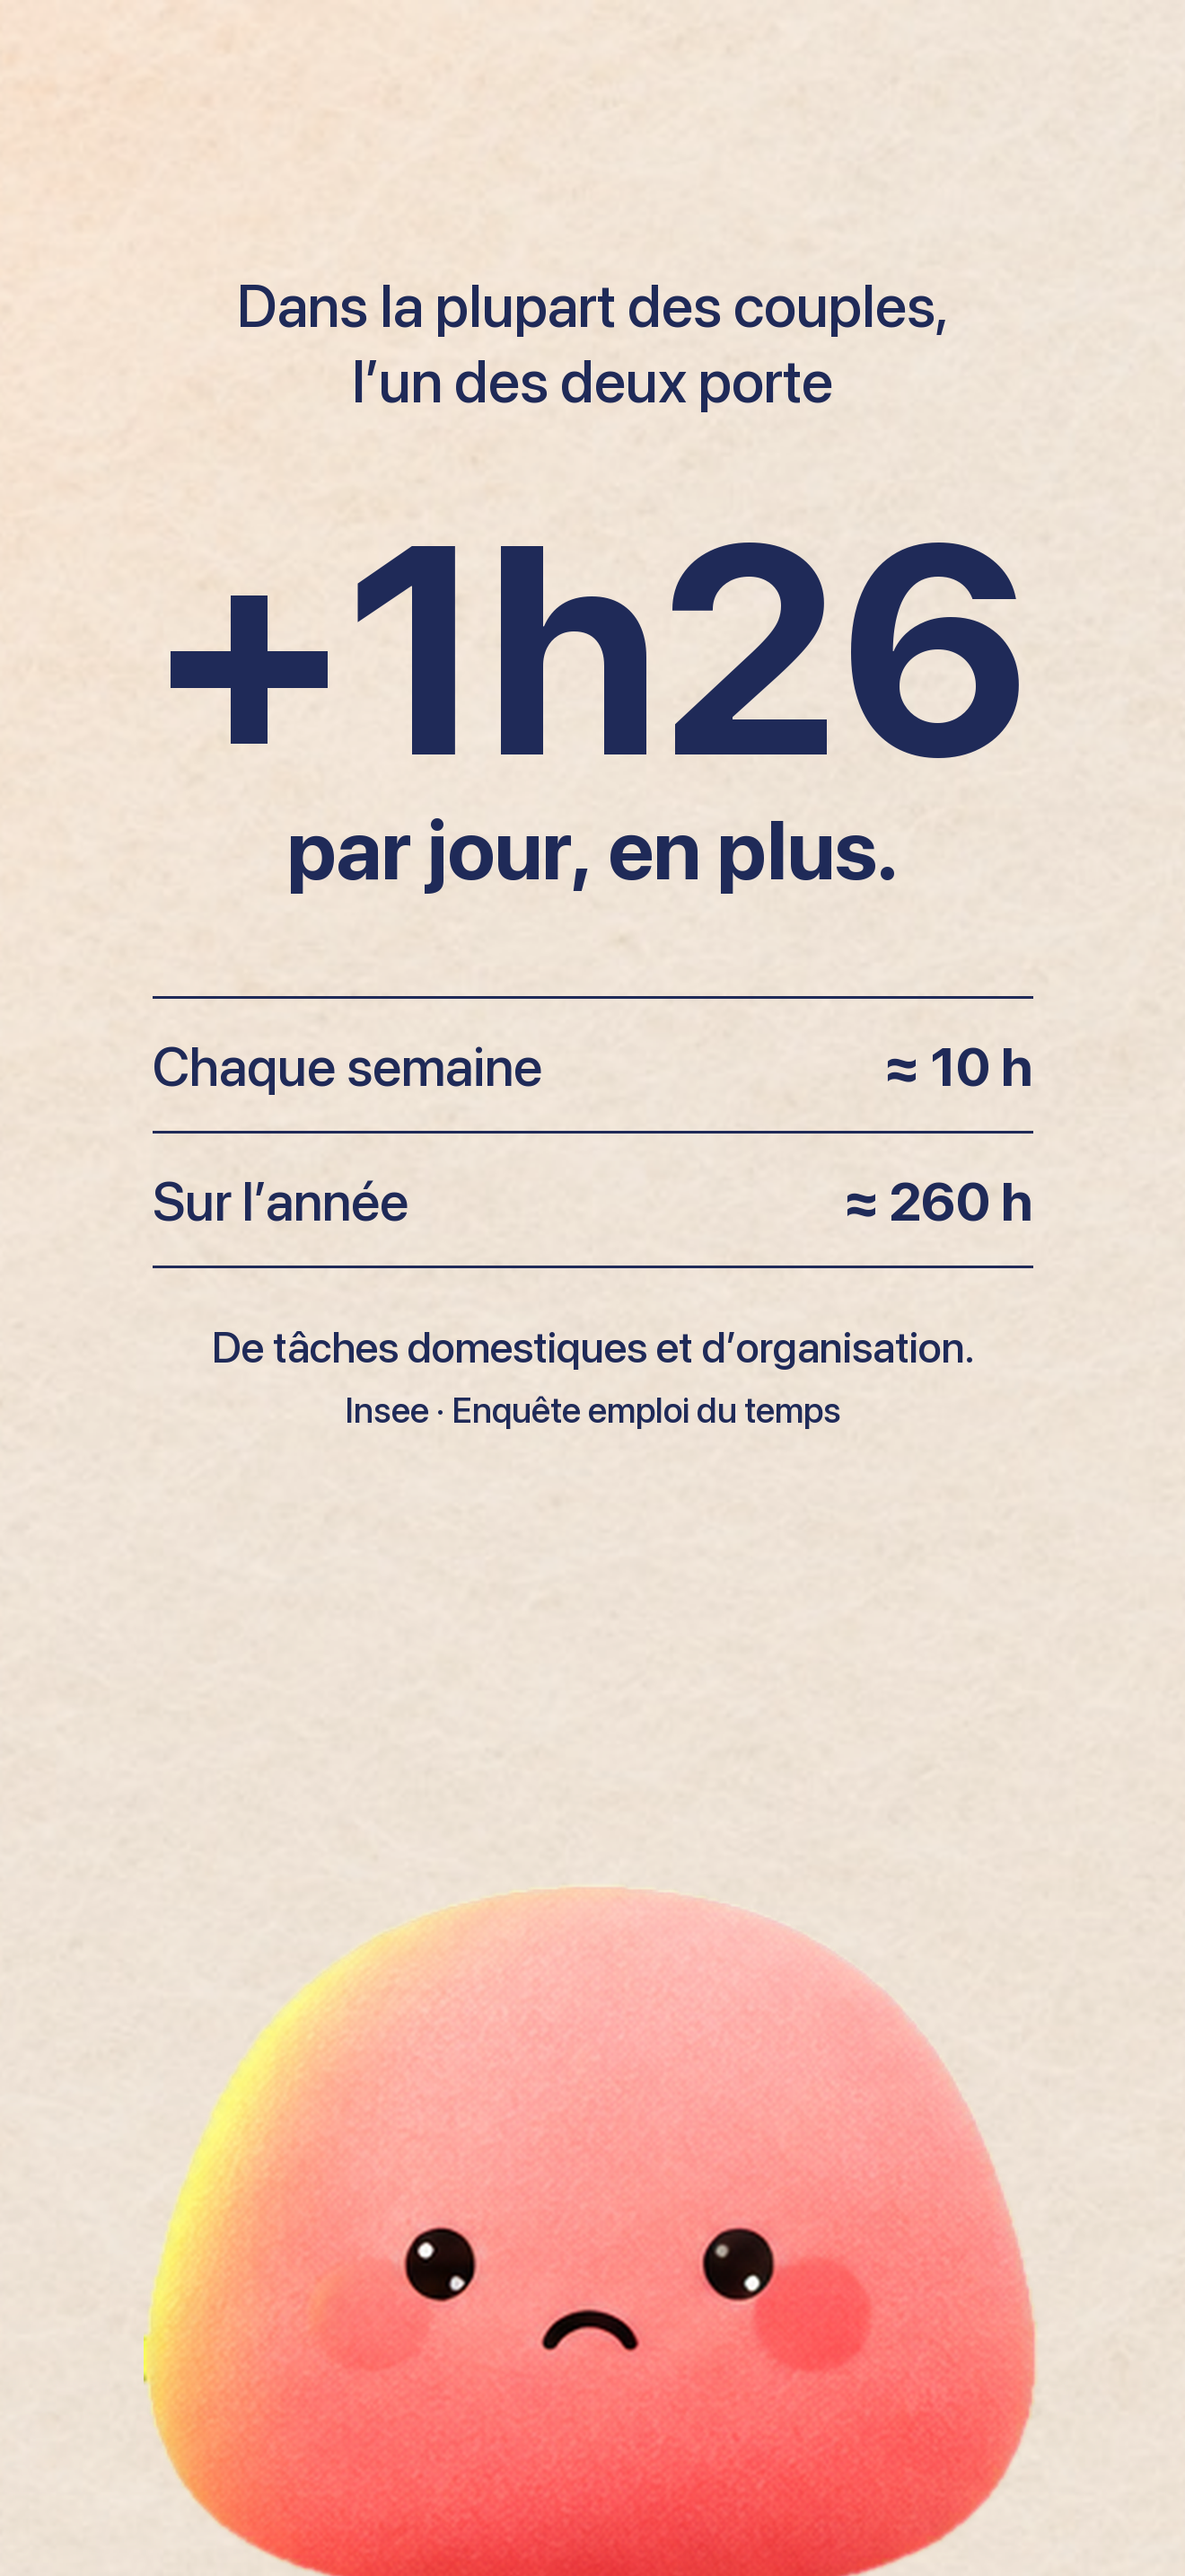
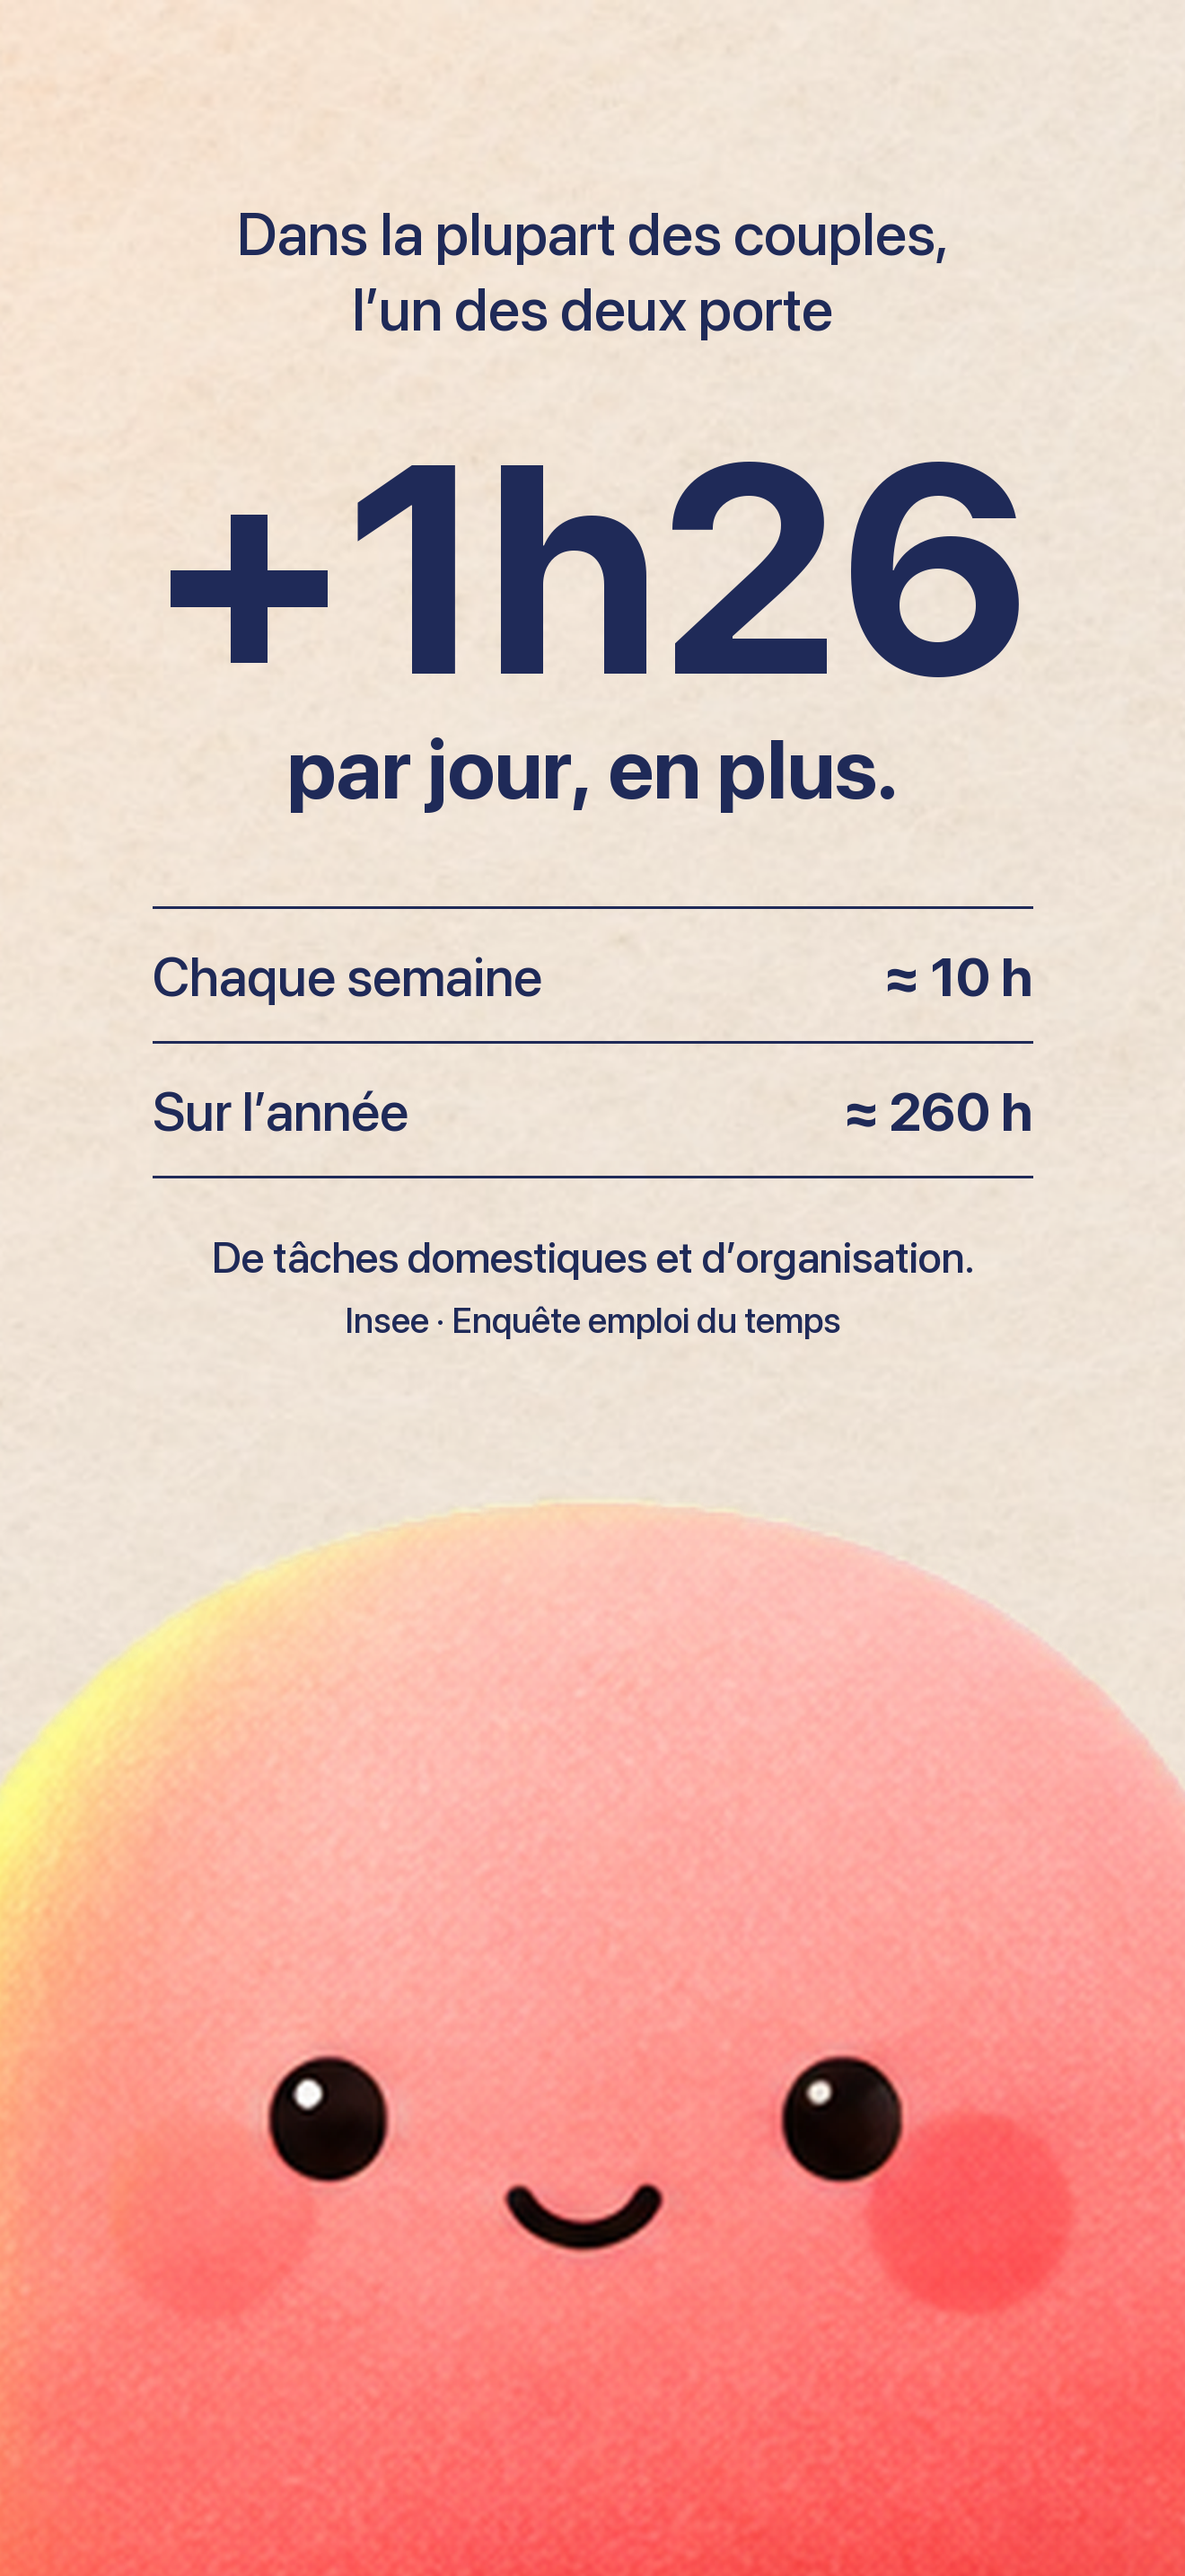
Captures App Store : écran Insee avec Mochi géant qui monte du bas

diff --git a/scripts/store-ecran2-insee.py b/scripts/store-ecran2-insee.py
@@ -9,16 +9,16 @@ base=Image.new('RGB',(W,H),(0xF3,0xEA,0xDF)); felt=Image.open(M+'assets/splash/f
 lay=base.copy(); lay.paste(felt,((W-H)//2,0)); im=Image.blend(base,lay,0.55).convert('RGBA'); d=ImageDraw.Draw(im)
 def c(y,t,f,fill):
     w=d.textlength(t,font=f); d.text(((W-w)/2,y),t,font=f,fill=fill)
-c(300,'Dans la plupart des couples,',font(66,'Medium'),INK+(190,)); c(384,'l’un des deux porte',font(66,'Medium'),INK+(190,))
-c(520,'+1h26',font(330,'Bold'),INK); c(890,'par jour, en plus.',font(92,'Bold'),INK)
-y=1110
+c(220,'Dans la plupart des couples,',font(66,'Medium'),INK+(190,)); c(304,'l’un des deux porte',font(66,'Medium'),INK+(190,))
+c(430,'+1h26',font(330,'Bold'),INK); c(800,'par jour, en plus.',font(92,'Bold'),INK)
+y=1010
 for t,v in [('Chaque semaine','≈ 10 h'),('Sur l’année','≈ 260 h')]:
     d.line((170,y,W-170,y),fill=INK+(40,),width=3); d.text((170,y+40),t,font=font(60,'Medium'),fill=INK+(190,))
     fv=font(60,'Bold'); w=d.textlength(v,font=fv); d.text((W-170-w,y+40),v,font=fv,fill=INK); y+=150
 d.line((170,y,W-170,y),fill=INK+(40,),width=3)
 c(y+60,'De tâches domestiques et d’organisation.',font(48,'Medium'),INK+(150,))
 c(y+135,'Insee · Enquête emploi du temps',font(40,'Medium'),INK+(120,))
-m=Image.open(B+'mochi-sad.png').convert('RGBA'); mw=1000; m=m.resize((mw,int(mw*m.height/m.width)),Image.LANCZOS)
-im.alpha_composite(m,((W-mw)//2,H-int(m.height*0.96)))  # on voit le visage, le bas du corps sort de l'écran
+m=Image.open(M+'assets/splash/mochi-happy.png').convert('RGBA'); mw=int(W*1.3); m=m.resize((mw,int(mw*m.height/m.width)),Image.LANCZOS)
+im.alpha_composite(m,((W-mw)//2,1660))  # Mochi géant qui monte du bas, comme l'écran d'ouverture (référence Jeanne 10 nov)
 im.convert('RGB').save(O+'v6-02.png')
 im.convert('RGB').resize((440,956)).save('/private/tmp/claude-501/-Users-jeannecazalot-Desktop-mochi-kickoff/17a8d86e-cb64-456e-8b82-3e270de20b35/scratchpad/e2.png')
